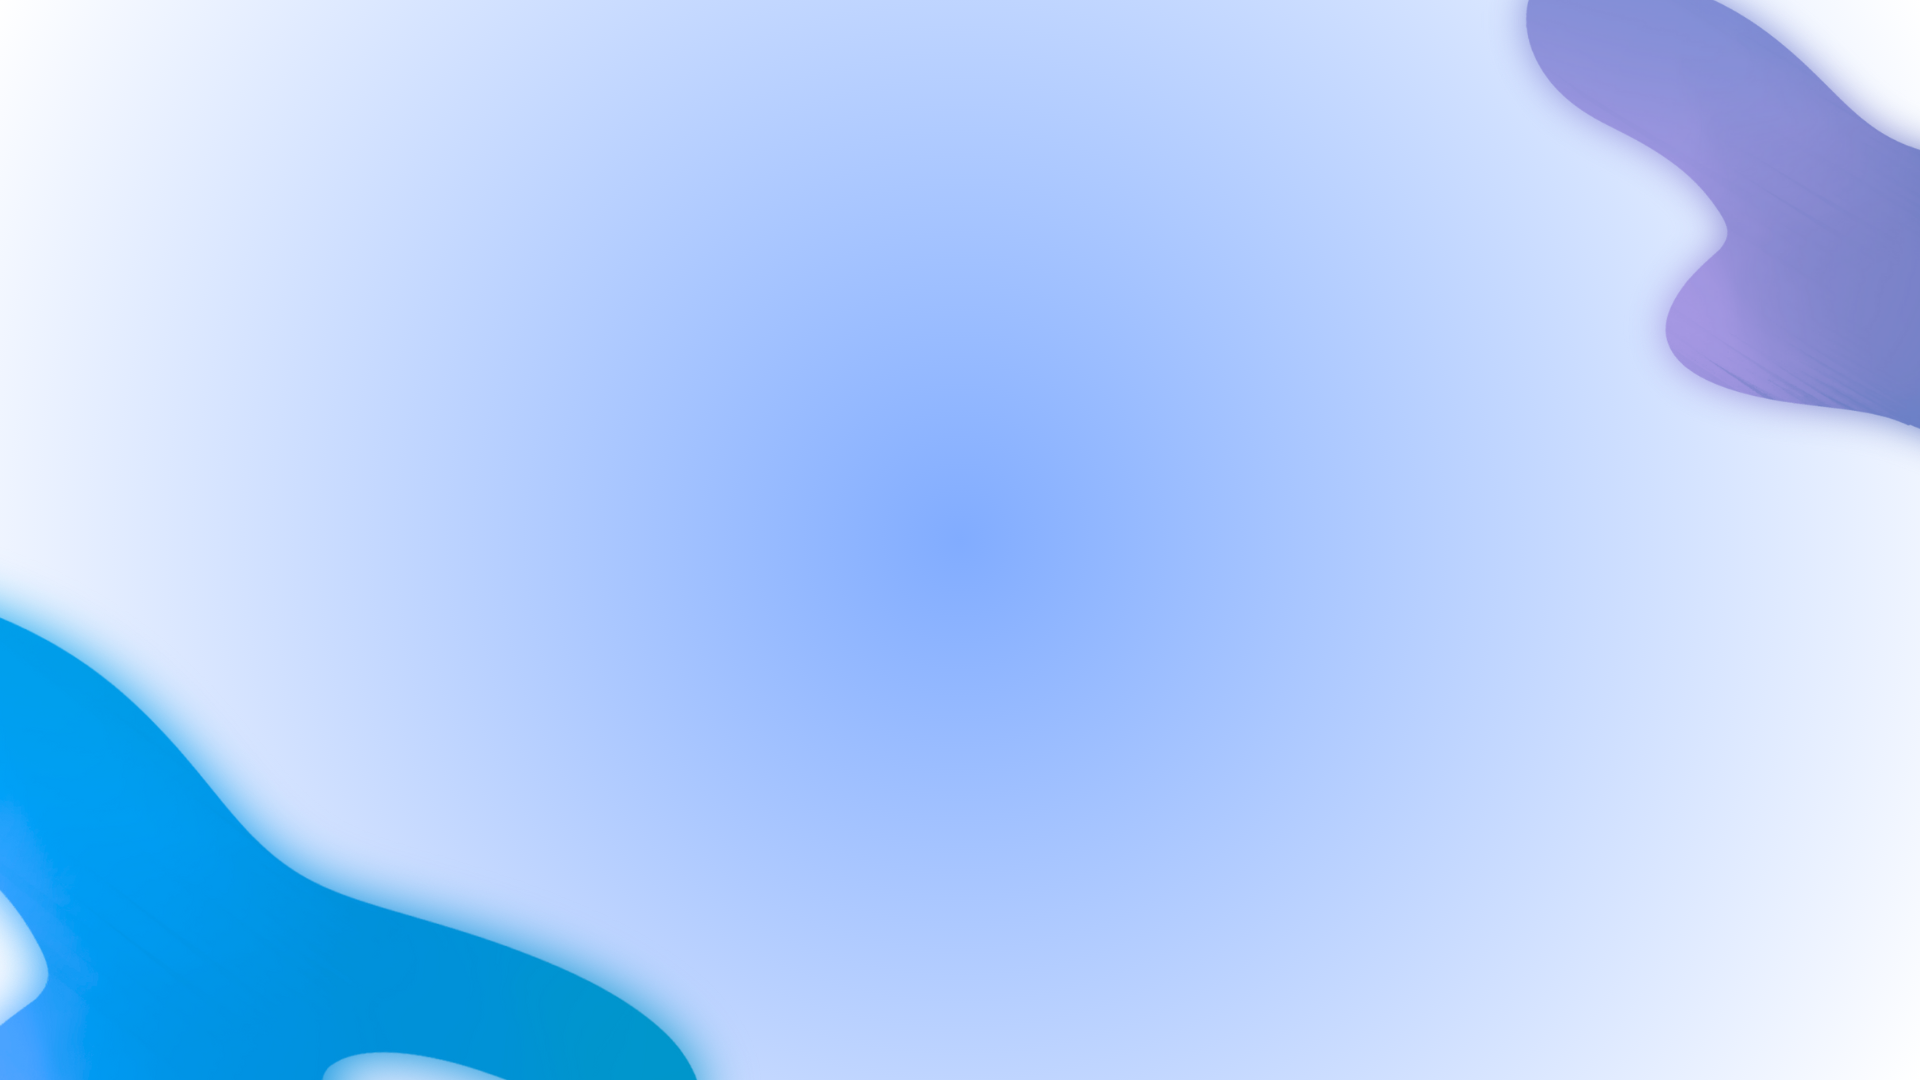
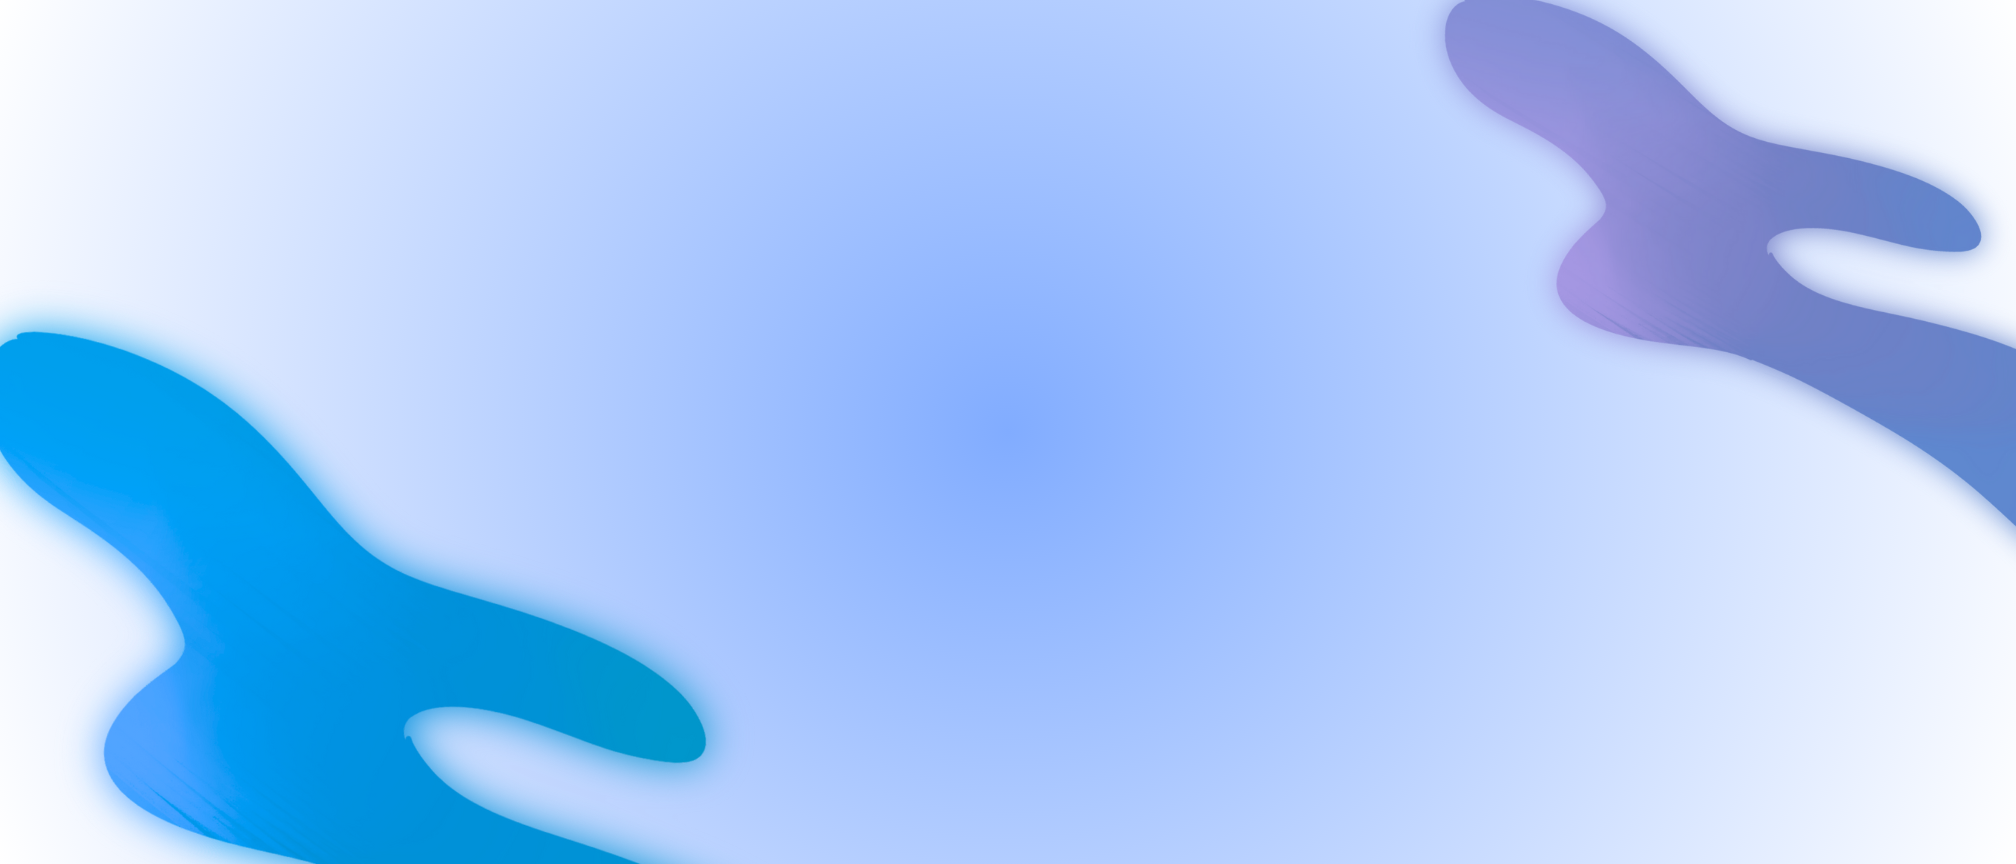
<SCRUM-26-fix> Fix UI, noti

Changed region(s): [[0.0, 0.3438, 0.375, 1.0], [0.6875, 0.0, 1.0, 0.625]]

diff --git a/src/components/popup.html b/src/components/popup.html
@@ -1,46 +1,17 @@
-<!-- popup.html -->
-<div
-  id="customPopup"
-  class="z-40 fixed top-5 right-5 w-80 bg-white shadow-lg rounded-lg p-4 flex items-start gap-3 border border-gray-200 hidden"
->
-  <!-- Icon Success -->
-  <div
-    class="flex items-center justify-center w-6 h-6 bg-green-100 rounded-full"
-  >
-    <svg
-      class="w-4 h-4 text-green-600"
-      fill="none"
-      stroke="currentColor"
-      viewBox="0 0 24 24"
-    >
-      <path
-        stroke-linecap="round"
-        stroke-linejoin="round"
-        stroke-width="2"
-        d="M5 13l4 4L19 7"
-      ></path>
-    </svg>
-  </div>
+<div id="customPopup" class="fixed inset-0 flex items-center justify-center bg-black/50 hidden">
+  <div class="bg_dark_blue rounded-xl w-full md:w-64 m-4">
+    <div class="popup bg_light_blue shadow-lg rounded-lg p-6 m-2">
+      <div class="flex justify-center">
+        <img
+          src="../assets/svg/robot-quiz-right.svg"
+          alt="Surprised child character"
+          class="w-32 h-32 object-contain"
+        />
+      </div>
 
-  <!-- Nội dung thông báo -->
-  <div class="flex-1">
-    <p class="text-sm font-semibold text-gray-900" id="popupTitle">
-      Successfully saved!
-    </p>
-    <p class="text-sm text-gray-500" id="popupMessage">
-      Anyone with a link can now view this file.
-    </p>
+      <h2 class="text-2xl font-bold text-black mb-6 text-center" id="popupTitle">
+        Are you sure you want to <span class="delete-text" id="popupMessage">delete</span> this quiz?
+      </h2>
+    </div>  
   </div>
-
-  <!-- Nút đóng -->
-  <button id="popupCloseBtn" class="text-gray-400 hover:text-gray-600">
-    <svg class="w-4 h-4" fill="none" stroke="currentColor" viewBox="0 0 24 24">
-      <path
-        stroke-linecap="round"
-        stroke-linejoin="round"
-        stroke-width="2"
-        d="M6 18L18 6M6 6l12 12"
-      ></path>
-    </svg>
-  </button>
 </div>

diff --git a/src/index.html b/src/index.html
@@ -89,21 +89,22 @@
     <link href="assets/css/custom.css" rel="stylesheet" />
 </head>
 
-<body class="bg-blue-200 flex flex-col items-center md:flex-row md:justify-around min-h-screen ">
+<body class="bg-blue-200 flex flex-col items-center md:flex-row md:justify-around min-h-screen bg-cover bg-center bg-no-repeat bg-fixed" 
+      style="background-image: url('/src/assets/images/background-real.png'); background-position-x: center;">
     <div class="text-center">
-        <img alt="logo" src="assets/images/logo.png" class="h-40 md:h-[250px] lg:h-[250px] mx-auto mb-4" />
-        <h1 class="sigmar-text text-7xl font-bold text-white drop-shadow-[2px_2px_0_black] mb-2">Welcome to</h1>
-        <h1 class="sigmar-text text-6xl font-bold text-white drop-shadow-[2px_2px_0_black]">QUIZ AI</h1>
+        <img alt="logo" src="assets/images/logo.png" class="h-35 md:h-[250px] lg:h-[250px] mx-auto mb-4" />
+        <h1 class="sigmar-text text-5xl md:text-7xl  font-bold text-white drop-shadow-[2px_2px_0_black] mb-2">Welcome to</h1>
+        <h1 class="sigmar-text text-4xl md:text-6xl font-bold text-white drop-shadow-[2px_2px_0_black]">QUIZ AI</h1>
     </div>
 
-    <div class="mt-8 mx-2 md:mx-0">
+    <div class="mt-8 mx md:mx-0">
         <!-- Nút Quiz Generator -->
          <div class="relative m-4 mb-6">
             <div>
                 <img src="assets/images/image 1.png" class="h-45 absolute left-0 top-0 z-10" />
                 <div class="bg-white flex ml-10 mr-5 items-center menuCard z-0">
                     <div class="flex flex-col p-2">
-                        <p class="text-xl md:text-3xl text-center font-bold p-2 pl-5 m-2">A.I. Generate<br> a quiz from any subject</p>
+                        <p class="text-base md:text-3xl text-center font-bold p-2 pl-5 m-2">A.I. Generate<br> a quiz from any subject</p>
                     </div>
                 </div>
             </div>

diff --git a/src/scripts/save-quizzes.js b/src/scripts/save-quizzes.js
@@ -140,13 +140,55 @@ async function retakeQuiz(quizId) {
 // Gọi hàm này để xoá quiz theo ID
 async function handleDeleteQuiz(quizId) {
   try {
-    await deleteQuiz(Number(quizId)); // Đảm bảo ID là số
-    console.log(`Quiz ${quizId} deleted!`);
-    await renderQuizzes(); // Đợi render hoàn tất
+    await deleteQuiz(Number(quizId)); // Xóa quiz theo ID
+
+    await renderQuizzes(); // Cập nhật danh sách quiz
+
+    // Hiển thị popup thành công
+    showPopup("Delete success!", "✅ Quiz deleted successfully!");
+
+    // Ẩn popup sau 2 giây
+    setTimeout(() => {
+      hidePopup();
+    }, 2000);
+
   } catch (error) {
-    console.error("Error deleting quiz:", error);
+    console.error("❌ Lỗi khi xóa quiz:", error);
+
+    // Hiển thị popup thất bại
+    showPopup("Error!", "❌ Failed to delete quiz");
+
+    // Ẩn popup sau 2 giây
+    setTimeout(() => {
+      hidePopup();
+    }, 2000);
   }
 }
+
+// Hàm hiển thị popup
+function showPopup(title, message) {
+  const popup = document.getElementById("customPopup");
+
+  if (popup) {
+    document.getElementById("popupTitle").innerHTML = title;
+    document.getElementById("popupMessage").innerHTML = message;
+    popup.classList.remove("hidden");
+  } else {
+    console.error("❌ Không tìm thấy phần tử #customPopup!");
+  }
+}
+
+// Hàm ẩn popup
+function hidePopup() {
+  const popup = document.getElementById("customPopup");
+
+  if (popup) {
+    popup.classList.add("hidden");
+  } else {
+    console.error("❌ Không tìm thấy phần tử #customPopup để ẩn!");
+  }
+}
+
 
 function formatDateTime(timestamp) {
   return new Date(timestamp).toLocaleString("vi-VN", {

diff --git a/src/pages/delete-popup.html b/src/pages/delete-popup.html
@@ -1,21 +1,23 @@
 <div id="confirmDeleteModal" class="popup-container">
-  <div class="popup">
-    <div class="flex justify-center mb-6">
-      <img
-        src="../assets/svg/robot-alert.svg"
-        alt="Surprised child character"
-        class="w-64 h-64 object-contain"
-      />
-    </div>
-
-    <h2 class="text-2xl font-bold text-black mb-8">
-      Are you sure you want to <span class="delete-text">delete</span> this
-      quiz?
-    </h2>
-
-    <div class="flex gap-6 justify-center">
-      <button id="cancelDelete" class="btn btn-cancel">Cancel</button>
-      <button id="confirmDelete" class="btn btn-confirm">Confirm</button>
+  <div class="bg_dark_blue rounded-xl m-2">
+    <div class="bg_light_blue rounded-xl p-6 m-2">
+      <div class="flex justify-center">
+        <img
+          src="../assets/svg/robot-alert.svg"
+          alt="Surprised child character"
+          class="w-40 md:w-64 md:h-64 object-contain"
+        />
+      </div>
+  
+      <h2 class="text-2xl font-bold text-black mb-8 text-center">
+        Are you sure you want to <span class="delete-text">delete</span> this
+        quiz?
+      </h2>
+  
+      <div class="flex gap-6 justify-center">
+        <button id="cancelDelete" class="btn btn-cancel bg_dark_blue">Cancel</button>
+        <button id="confirmDelete" class="btn btn-confirm">Confirm</button>
+      </div>
     </div>
   </div>
 </div>

diff --git a/src/pages/retake-popup.html b/src/pages/retake-popup.html
@@ -1,21 +1,22 @@
 <div id="confirmDeleteModal" class="popup-container">
-  <div class="popup">
-    <div class="flex justify-center mb-6">
-      <img
+  <div class="bg_dark_blue rounded-xl m-2">
+    <div class="bg_light_blue rounded-xl p-6 m-2">
+      <div class="flex justify-center">
+        <img
         src="../assets/svg/robot-writing.svg"
         alt="Surprised child character"
-        class="w-64 h-64 object-contain"
+        class="w-40 md:w-64 md:h-64 object-contain"
       />
-    </div>
-
-    <h2 class="text-2xl font-bold text-black mb-8">
-      Are you sure you want to <span class="delete-text">retake</span> this
-      quiz?
-    </h2>
-
-    <div class="flex gap-6 justify-center">
-      <button id="cancelRetake" class="btn btn-cancel">Cancel</button>
-      <button id="confirmRetake" class="btn btn-confirm">Confirm</button>
-    </div>
+      </div>
+      <h2 class="text-2xl font-bold text-black mb-8 text-center">
+        Are you sure you want to <span class="delete-text">retake</span> this
+        quiz?
+      </h2>
+  
+      <div class="flex gap-6 justify-center">
+        <button id="cancelRetake" class="btn btn-cancel">Cancel</button>
+        <button id="confirmRetake" class="btn btn-confirm">Confirm</button>
+      </div>
+    </div>    
   </div>
 </div>

diff --git a/src/scripts/review.js b/src/scripts/review.js
@@ -160,7 +160,11 @@ function saveNewQuiz(title, questions, score, totalQuestions) {
     addRequest.onsuccess = function () {
       console.log("✅ Quiz saved successfully!");
       showPopup("Success!", "✅ Quiz saved successfully!.");
-    };
+      
+      setTimeout(function () {
+          window.location.href = "saved-quizzes.html";
+      }, 2000);
+  };
 
     addRequest.onerror = function (error) {
       console.error("❌ Failed to save quiz:", error);
@@ -200,6 +204,10 @@ function updateQuiz(id, score, totalQuestions) {
         updateRequest.onsuccess = function () {
           console.log("✅ Quiz updated successfully!");
           showPopup("Success!", "✅ Quiz updated successfully!");
+
+          setTimeout(function () {
+            window.location.href = "saved-quizzes.html";
+        }, 2000);
         };
 
         updateRequest.onerror = function (error) {

diff --git a/src/pages/saved-quizzes.html b/src/pages/saved-quizzes.html
@@ -10,7 +10,7 @@
 
   <body
     class="min-h-screen min-w-screen px-3 bg-no-repeat bg-cover"
-    style="background-image: url(../assets/images/background-real.png)"
+    style="background-image: url('/src/assets/images/background-real.png'); background-position-x: center;"
   >
     <!-- Header Section -->
     <div class="max-w-7xl mx-auto mb-8 mt-10">
@@ -43,6 +43,7 @@
       class="max-w-7xl mx-auto grid grid-cols-1 md:grid-cols-2 lg:grid-cols-3 gap-6"
     ></div>
     <div id="popupContainer"></div>
+    <script src="../scripts/popup.js"></script>
     <script src="../scripts/save-quizzes.js"></script>
     <script src="../services/dbService.js"></script>
   </body>

diff --git a/src/assets/css/custom.css b/src/assets/css/custom.css
@@ -15,16 +15,6 @@
   z-index: 50;
 }
 
-.popup {
-  background-color: #e3f2fd;
-  border-radius: 2.5rem;
-  padding: 2.5rem;
-  box-shadow: 0 0 0 10px rgba(25, 118, 210, 0.1);
-  max-width: 90%;
-  width: 500px;
-  text-align: center;
-}
-
 .hidden {
   display: none;
 }
@@ -42,7 +32,7 @@
 }
 
 .btn-cancel {
-  background-color: #f44336;
+  background-color: #E93332;
   color: white;
   box-shadow: 0 4px 6px rgba(244, 67, 54, 0.25);
 }
@@ -52,7 +42,7 @@
 }
 
 .btn-confirm {
-  background-color: #1976d2;
+  background-color: #0077b6;
   color: white;
   box-shadow: 0 4px 6px rgba(25, 118, 210, 0.25);
 }

diff --git a/src/pages/chat.html b/src/pages/chat.html
@@ -140,7 +140,8 @@
     <link href="../output.css" rel="stylesheet">
 </head>
 
-<body class="flex justify-center items-center min-h-screen mt-15 px-2">
+<body class="flex justify-center items-center min-h-screen mt-15 px-2" 
+style="background-image: url('/src/assets/images/background-real.png'); background-position-x: center;">
     <div
         class="container flex flex-col md:flex-row justify-center items-center space-x-0 md:space-x-10 space-y-6 md:space-y-0">
         <div id="formContainer" class="form-container w-full md:w-1/3 quiz-card transition-transform transform">

diff --git a/src/scripts/quiz.js b/src/scripts/quiz.js
@@ -131,7 +131,7 @@ function showQuestion() {
         if (
           selectedAnswers[currentQuestionIndex] != null &&
           selectedAnswers[currentQuestionIndex].includes(key) &&
-          quizAnswer[currentQuestionIndex].length !== 1
+          quizData[currentQuestionIndex].correct_answers.length !== 1
         ) {
           answerButtons[key].classList.remove("bg-blue-400", "bg-green-700");
           answerButtons[key].classList.add("bg-blue-200");

diff --git a/src/scripts/popup.js b/src/scripts/popup.js
@@ -32,9 +32,9 @@ document.addEventListener("DOMContentLoaded", function () {
         popup.classList.remove("hidden");
   
         // Ẩn popup sau 3 giây
-        setTimeout(() => {
-          popup.classList.add("hidden");
-        }, 3000);
+        // setTimeout(() => {
+        //   popup.classList.add("hidden");
+        // }, 3000);
       }
     };
   }

diff --git a/src/input.css b/src/input.css
@@ -10,6 +10,7 @@
 
 .bg_card_blue {
   background-color: #bde0fe;
+  box-shadow: 10px 10px 4px rgba(0, 0, 0, 0.2);
 }
 
 .bg_card_inner {
